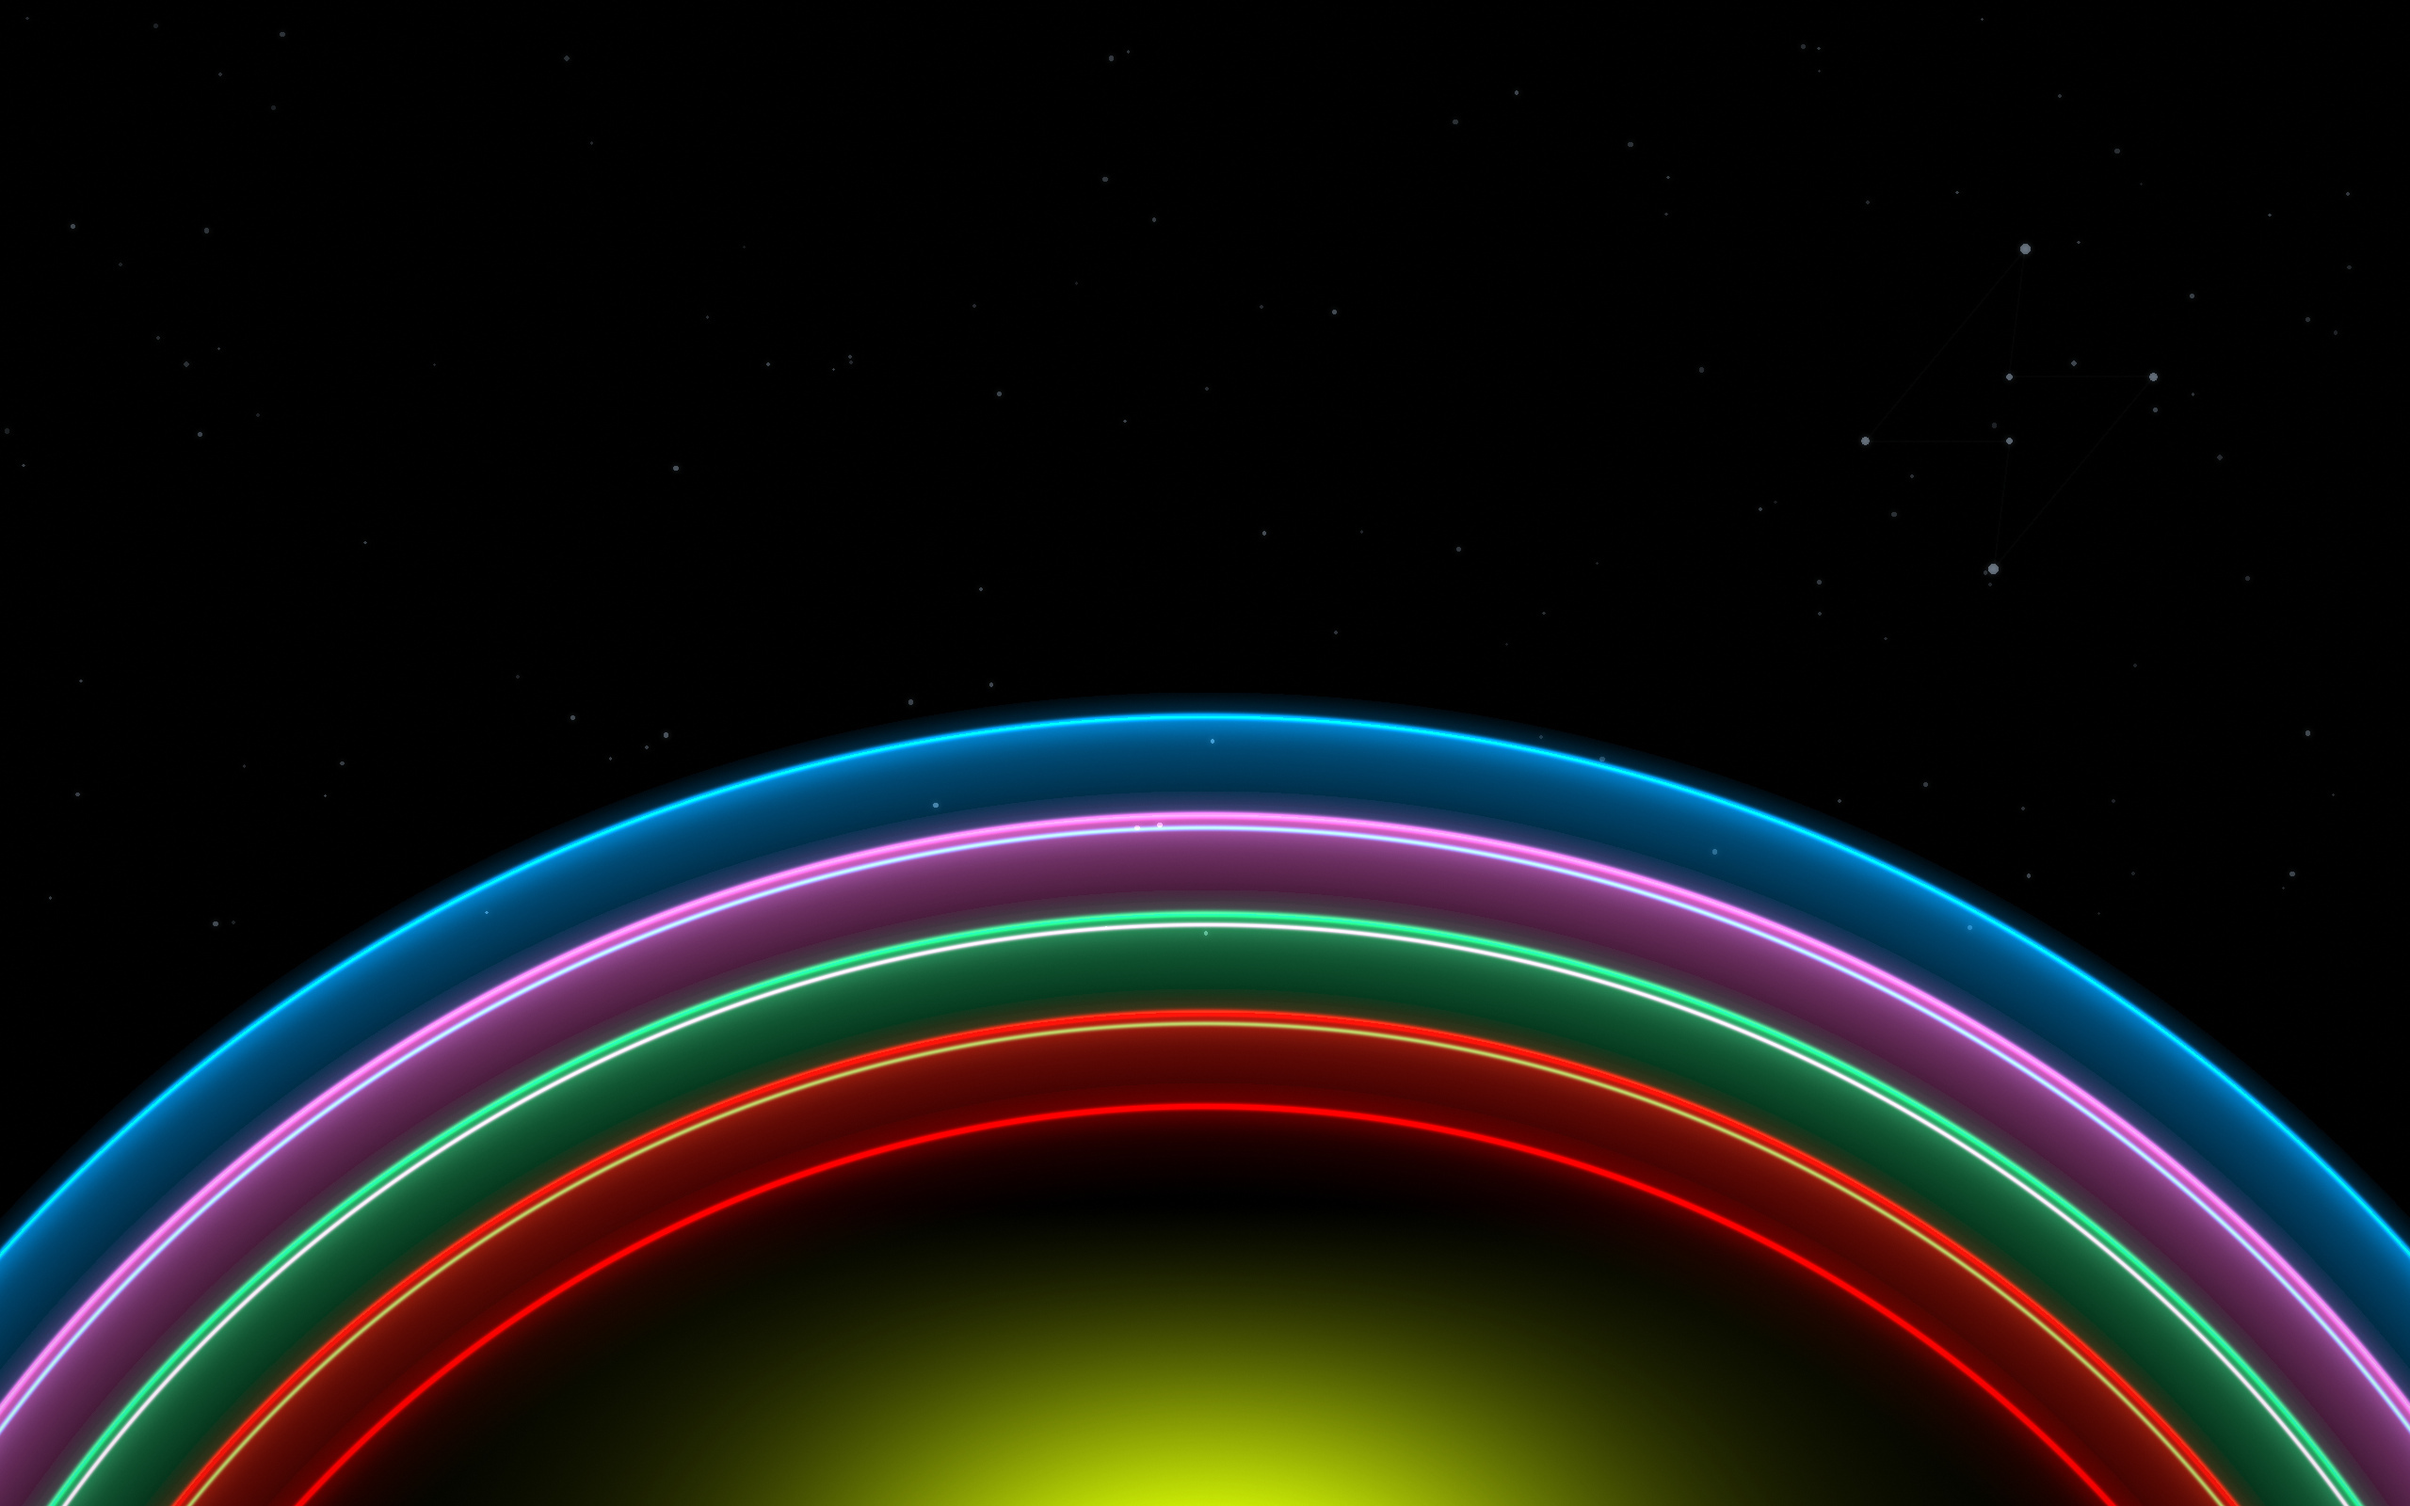
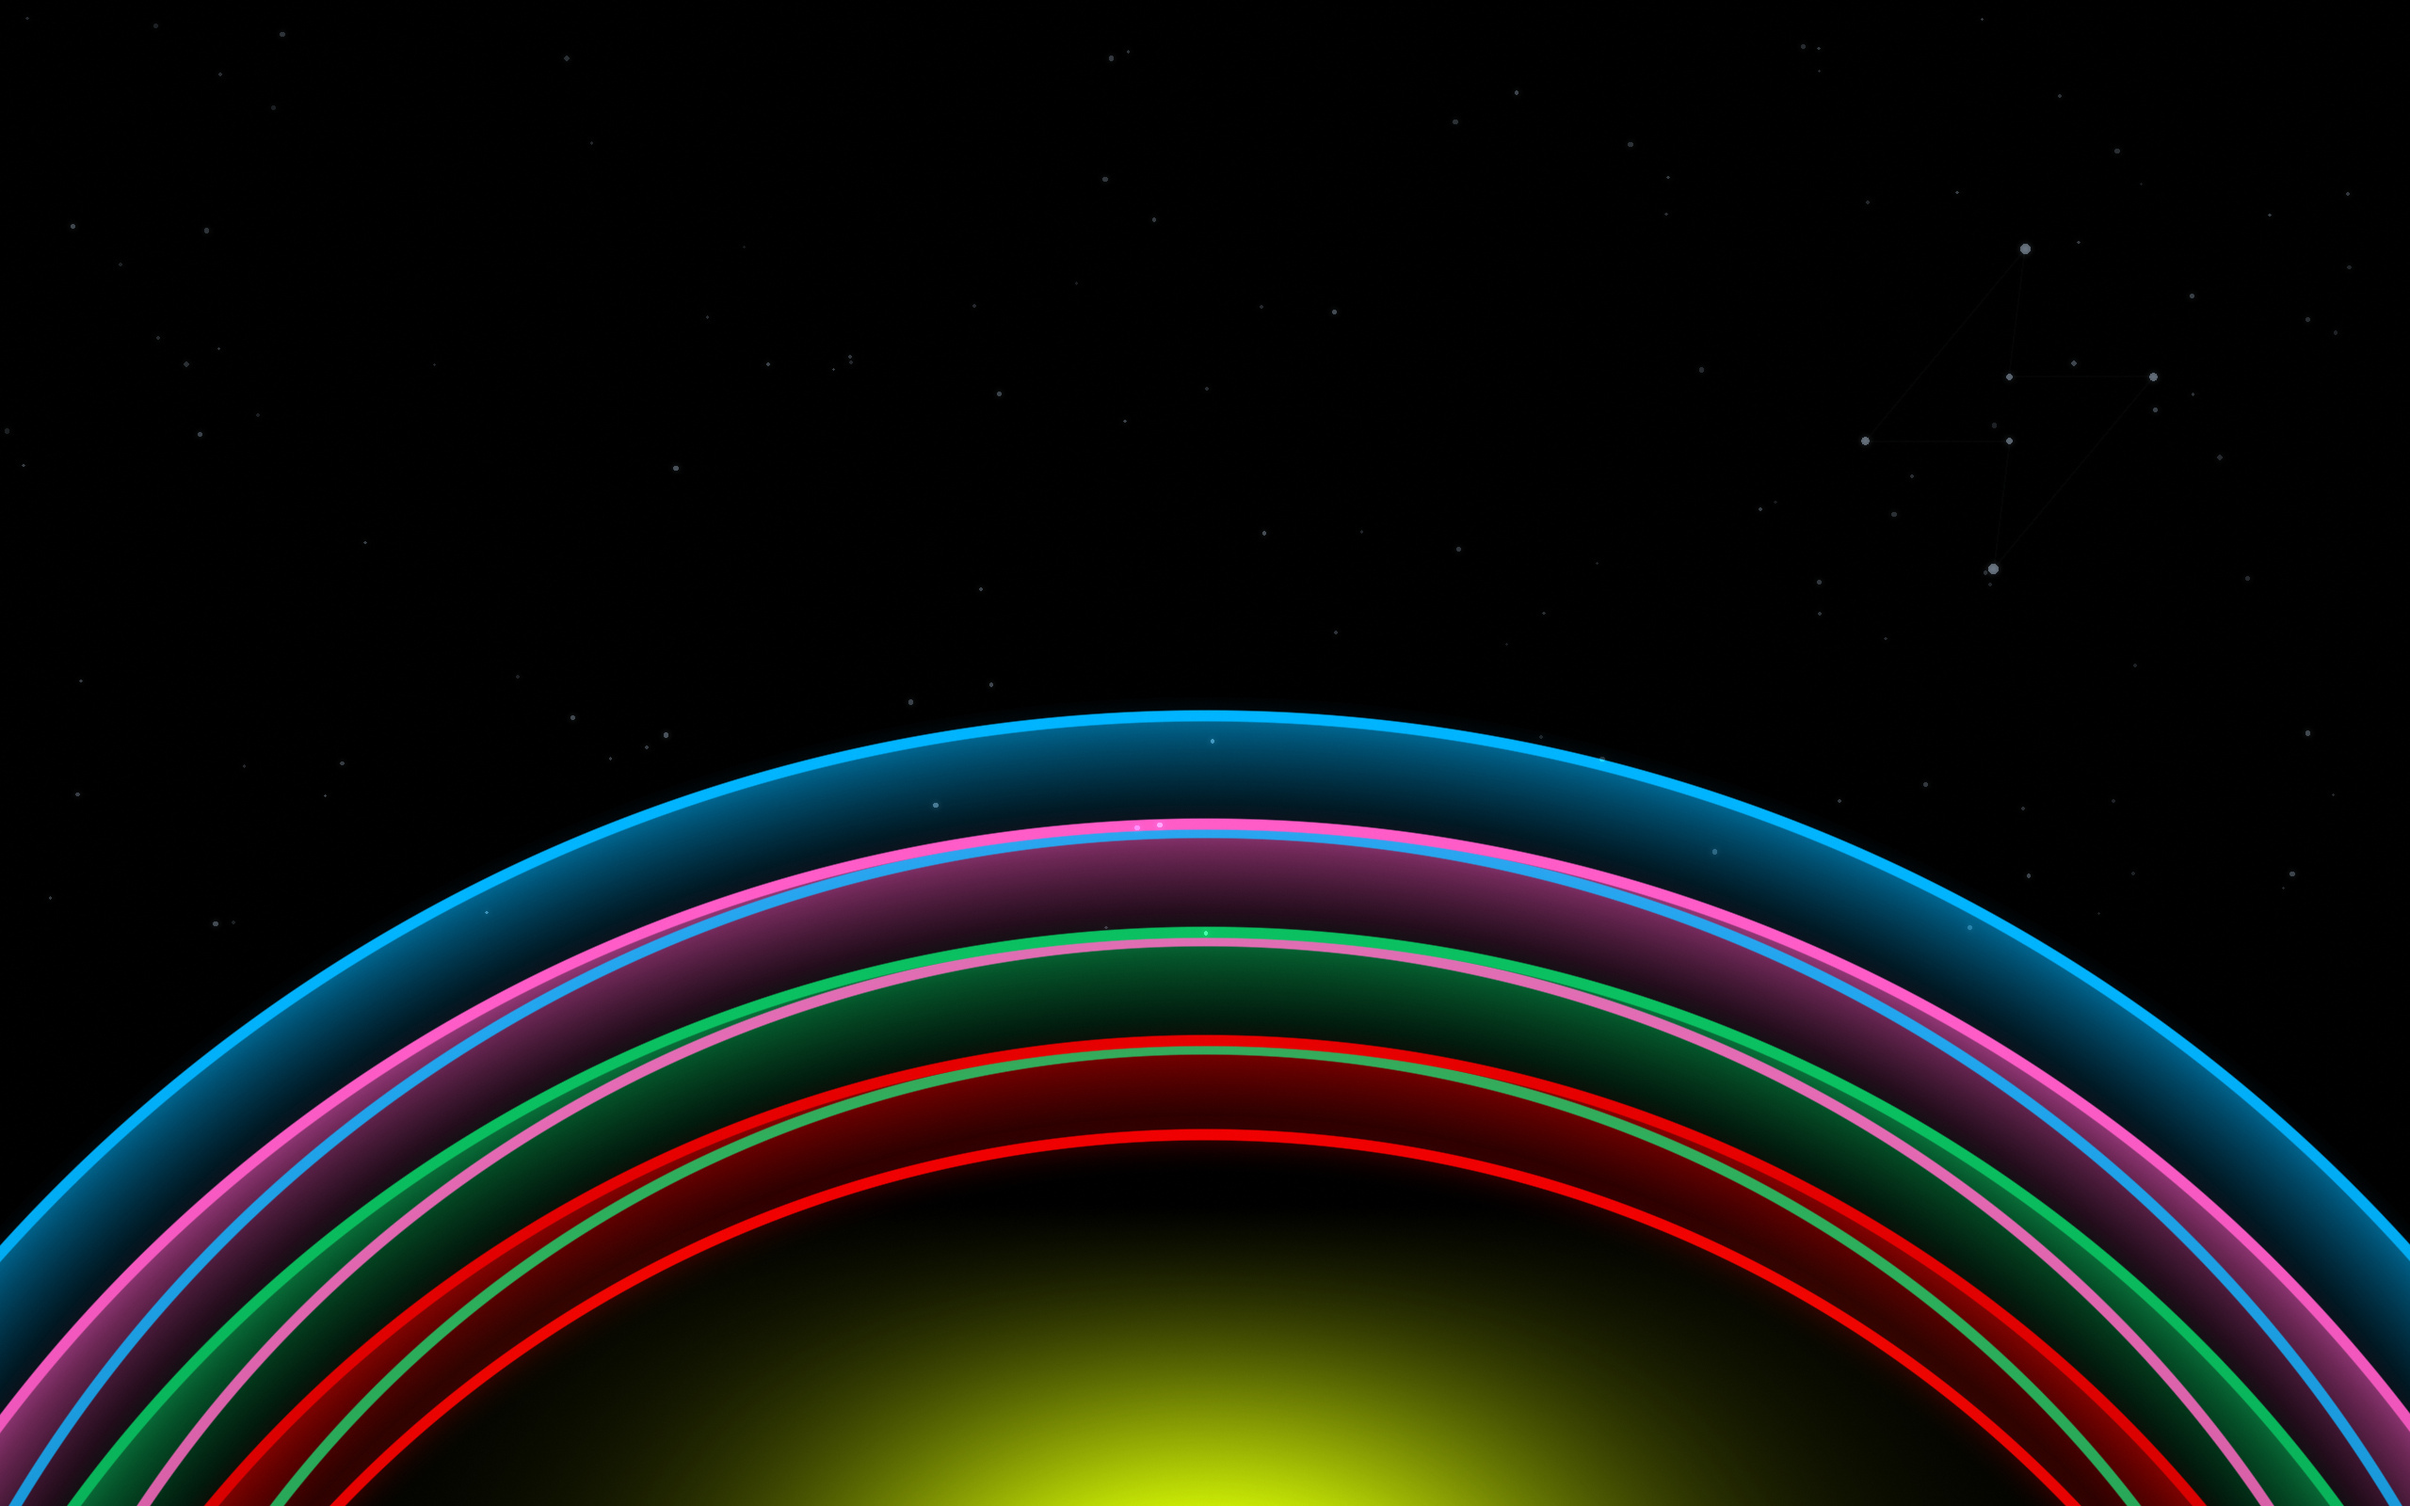
Descargas: arco iris clásico más fiel al original (líneas finas desplazadas, trazo sólido, rellenos que se desvanecen)
Claude-Session: https://claude.ai/code/session_01M2WqpNZTavTYJZqh62WLkY

Changed region(s): [[0.0, 0.4375, 1.0, 1.0]]

diff --git a/index.html b/index.html
@@ -1730,7 +1730,7 @@ const DEFAULT_QUICK_LINKS = [
 ];
 
 /* ---------------- embedded reference data (mirrors /data/*.json) ---------------- */
-const APP_VERSION = '2026-10-29.5';
+const APP_VERSION = '2026-10-29.6';
 const VEHICLE_BATTERY_KWH = 74.8;
 const VERSION_LABELS = { design: 'Design (RWD) · 313 CV', excellence: 'Excellence (AWD) · 449 CV' };
 const REVISIONS_SCHEDULE = {
@@ -2687,7 +2687,7 @@ const DOWNLOADS = [
     ['fondo_medio_19_esquina_celeste.jpg','Esquina celeste','291 KB'],
     ['fondo_medio_x_ondas_arena.jpg','Ondas arena','766 KB'] ] },
   { cat: 'colorido', group: 'Arcos de color', thumbs: true, items: [
-    ['fondo_arcos_00_arcoiris_clasico.jpg','Arco iris clásico','718 KB'],
+    ['fondo_arcos_00_arcoiris_clasico.jpg','Arco iris clásico','783 KB'],
     ['fondo_arcos_01_arcos_abajo.jpg','Arco iris','612 KB'],
     ['fondo_arcos_02_arcos_neon.jpg','Arcos neón','649 KB'],
     ['fondo_arcos_03_arcos_calidos.jpg','Arcos cálidos','605 KB'],
